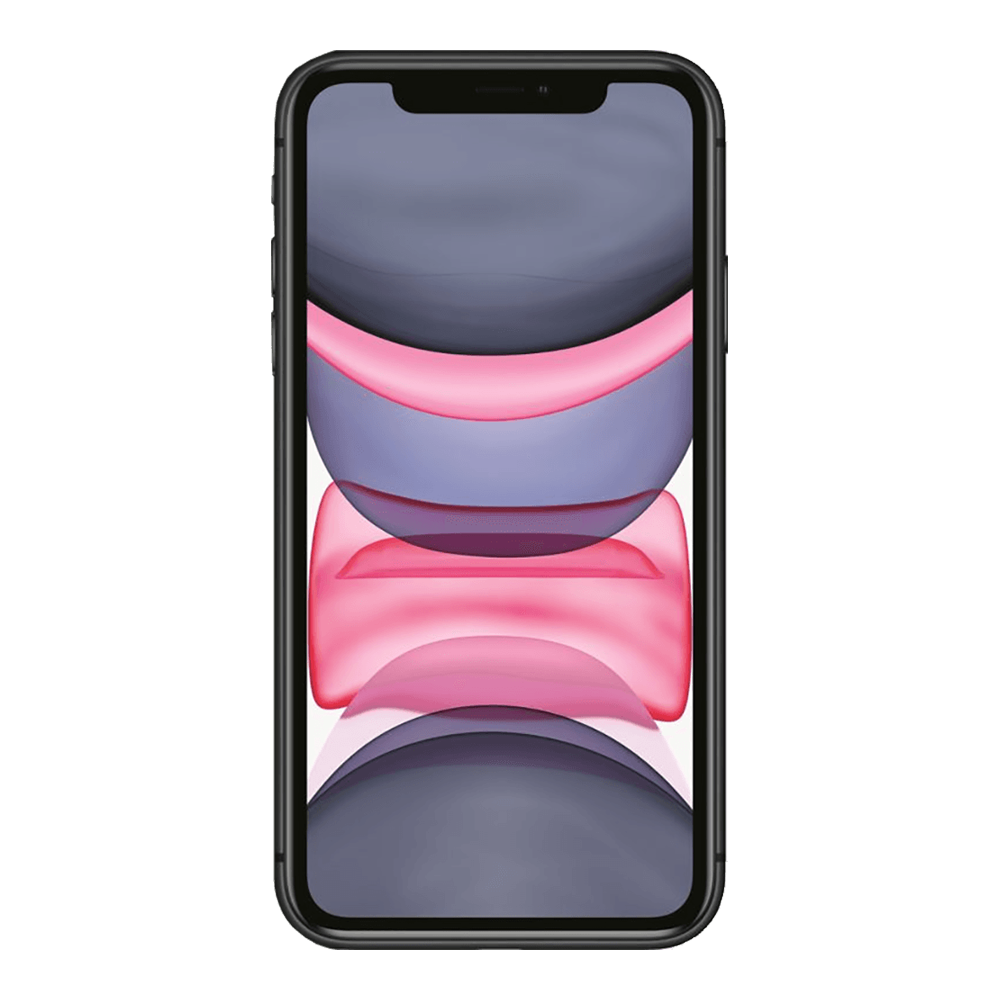
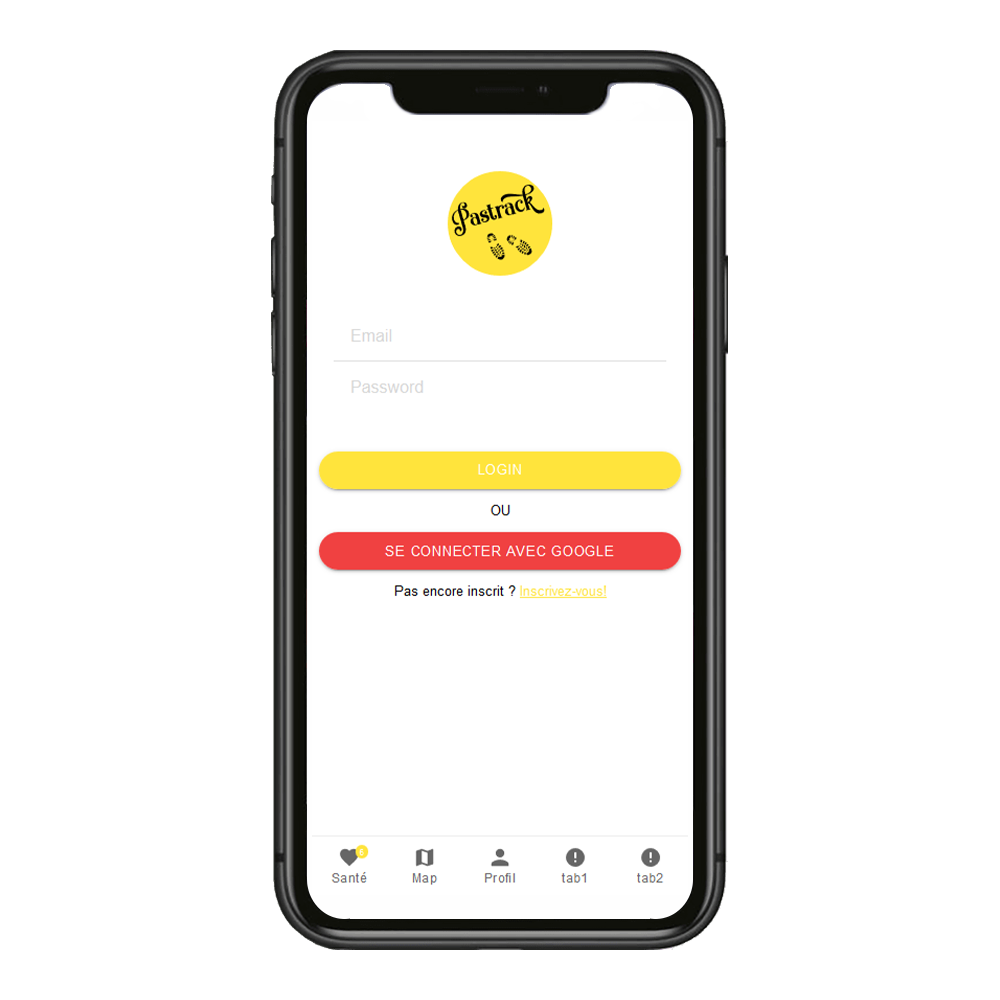
login and register update

diff --git a/PasTrack/src/app/login/login.component.scss b/PasTrack/src/app/login/login.component.scss
@@ -5,6 +5,7 @@
   height: 100vh;
 
   position: relative;
+  background-color: whitesmoke;
 
   @include transition;
 
@@ -14,6 +15,9 @@
     left: 50%;
     transform: translate(-50%, -50%);
     width: 25%;
+    background-color: white;
+    padding: 20px;
+    box-shadow: 0 1.5rem 4rem rgba($color-black, .4);
 
     @include transition;
 
@@ -33,6 +37,7 @@
       font-size: 3rem;
       font-weight: 400;
       padding-bottom: 2rem;
+      margin-top: 2rem;
     }
 
     &--input {
@@ -41,7 +46,7 @@
       border-radius: 3px;
       padding: 10px 15px;
       margin: 0 auto;
-      margin-bottom: 10px;
+      margin-bottom: 20px;
       display: block;
       text-align: center;
       font-size: 18px;
@@ -56,7 +61,7 @@
     }
 
     &__button {
-      border: 1px solid;
+      border: none;
       width: 90%;
       border-radius: 3px;
       padding: 10px 15px;
@@ -66,10 +71,21 @@
       text-align: center;
       font-size: 18px;
       font-weight: 300;
+      background-color: #FFE43C;
+
+      @include transition;
 
       &:hover {
         cursor: pointer;
+        background-color: #E8BC2C;
+        color: white;
       }
+    }
+
+    &__infos {
+      text-align: center;
+      font-size: 1.2rem;
+      padding-top: 1rem;
     }
   }
 }
@@ -77,6 +93,6 @@
 /*MEDIA QUERIES*/
 @media screen and (max-width: 800px) {
   .login__form {
-    width: 100%;
+    width: 80%;
   }
 }

diff --git a/PasTrack/src/app/signup/signup.component.scss b/PasTrack/src/app/signup/signup.component.scss
@@ -6,14 +6,19 @@
 
   position: relative;
 
+  background-color: whitesmoke;
+
   @include transition;
 
   &__form {
     position: absolute;
-    top: 40%;
+    top: 45%;
     left: 50%;
     transform: translate(-50%, -50%);
     width: 25%;
+    box-shadow: 0 1.5rem 4rem rgba($color-black, .4);
+    padding: 20px;
+    background-color: white;
 
     @include transition;
 
@@ -33,6 +38,7 @@
       font-size: 3rem;
       font-weight: 400;
       padding-bottom: 2rem;
+      margin-top: 2rem;
     }
 
     &--input {
@@ -41,7 +47,7 @@
       border-radius: 3px;
       padding: 10px 15px;
       margin: 0 auto;
-      margin-bottom: 10px;
+      margin-bottom: 20px;
       display: block;
       text-align: center;
       font-size: 18px;
@@ -56,7 +62,7 @@
     }
 
     &__button {
-      border: 1px solid;
+      border: none;
       width: 90%;
       border-radius: 3px;
       padding: 10px 15px;
@@ -66,10 +72,20 @@
       text-align: center;
       font-size: 18px;
       font-weight: 300;
+      background-color: #FFE43C;
+
+      @include transition;
 
       &:hover {
         cursor: pointer;
+        background-color: #E8BC2C;
+        color: white;
       }
+    }
+    &__infos {
+      text-align: center;
+      font-size: 1.2rem;
+      padding-top: 1rem;
     }
   }
 }

diff --git a/PasTrack/src/app/signup/signup.component.html b/PasTrack/src/app/signup/signup.component.html
@@ -37,5 +37,11 @@
                     (click)="signup()"><span *ngIf="loading" class="spinner-border spinner-border-sm mr-1"></span>Inscription
             </button>
         </div>
+
+        <div class="register__form__infos">
+            <p>Déjà inscrit ?
+                <a routerLink="/inscription" class="register__form__logo--link"> Connectez-vous!</a>
+            </p>
+        </div>
     </form>
 </section>

diff --git a/PasTrack/src/app/login/login.component.html b/PasTrack/src/app/login/login.component.html
@@ -34,6 +34,10 @@
                     (click)="login()"><span *ngIf="loading"></span>Connexion
             </button>
         </div>
-
+        <div class="login__form__infos">
+            <p>Pas encore inscrit ?
+                <a routerLink="/inscription" class="login__form__logo--link"> Inscrivez-vous!</a>
+            </p>
+        </div>
     </form>
 </section>

diff --git a/PasTrack/src/app/informations/informations.component.scss b/PasTrack/src/app/informations/informations.component.scss
@@ -89,7 +89,7 @@
   height: 100vh;
 
   position: relative;
-  background-color: #333333;
+  background-color: #111111;
 
   &__arrow {
     width: 40px;

diff --git a/PasTrack/src/app/footer/footer.component.scss b/PasTrack/src/app/footer/footer.component.scss
@@ -1,5 +1,5 @@
 .footer {
-  background-color: #333333;
+  background-color: #111111;
   padding: 18rem 0;
   font-size: 1.4rem;
 
